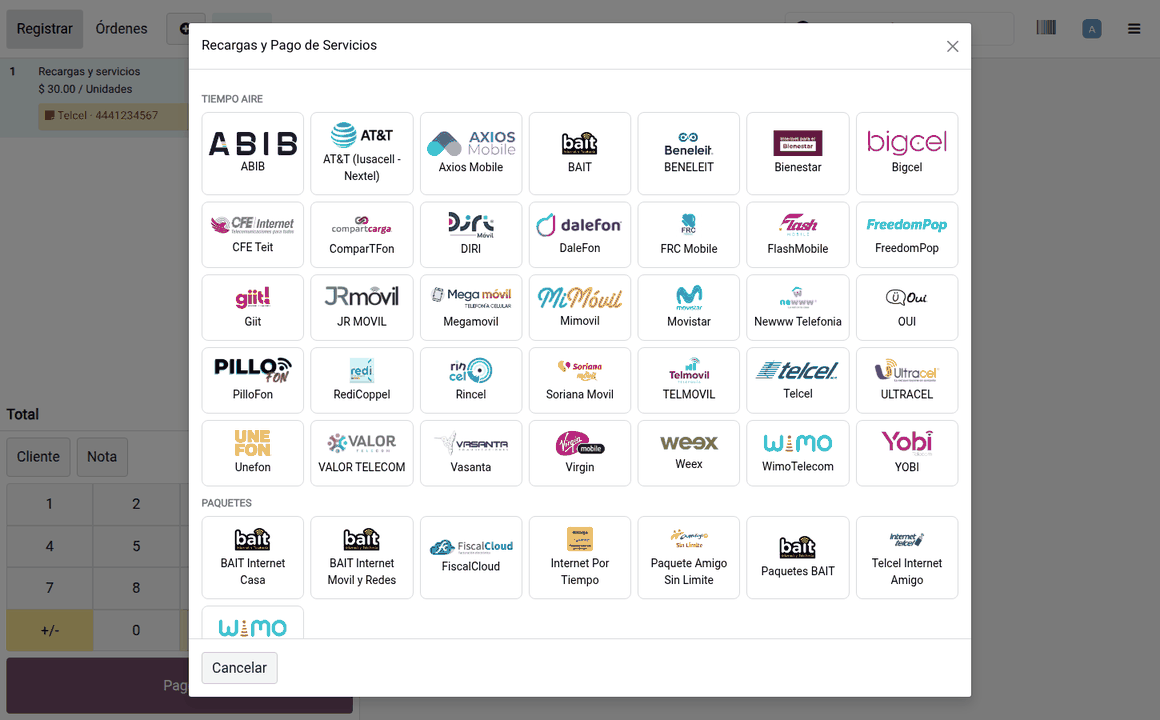
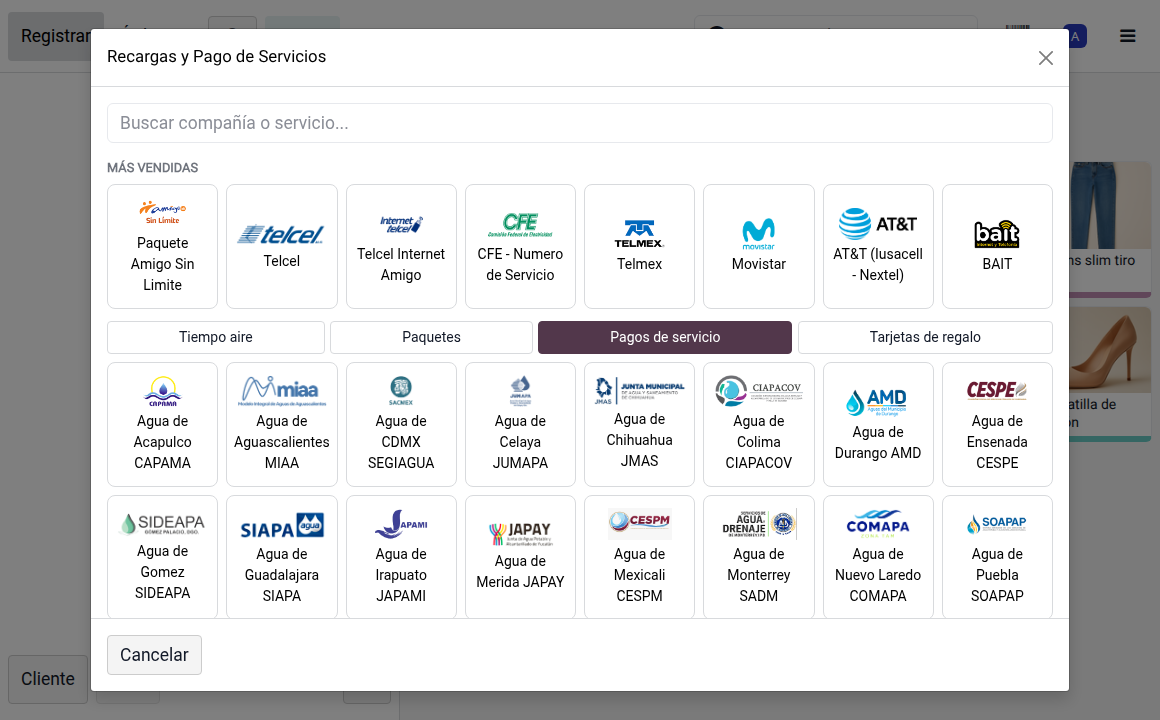
xb_pos_taecel 1.1.7: screenshots and cashier manual match the new recharge picker
- Store page: new carriers screenshot (most sold, tabs, search box) and a
  line on the search box, the tabs and small POS terminals.
- Cashier manual: steps 2 and bill payments describe the search box and the
  tabs; their screenshots retaken (es and en).
- The manual is refreshed on upgrade. Its checksum was taken of the body we
  generated, which the html sanitizer always rewrites, so every manual looked
  edited by hand and none was ever refreshed. It is now taken of the stored
  body, and a body last written by the superuser counts as untouched.

diff --git a/xb_pos_taecel/static/description/index.html b/xb_pos_taecel/static/description/index.html
@@ -39,8 +39,11 @@
 
     <div style="margin:0 0 32px;">
       <p style="font-size:15px;color:#666;margin:0 0 10px;">
-        That button opens the whole catalog, grouped as TAECEL publishes it
-        &mdash; airtime, data packages, bill payments:
+        That button opens the whole catalog. What this shop sells most comes
+        first, then one tab per group &mdash; airtime, data packages, bill
+        payments, gift cards &mdash; and a search box finds any company by
+        name, accents or not. It fits small POS terminals too, and on a touch
+        screen the keyboard only shows up when the cashier taps the search box:
       </p>
       <img src="screenshots/carriers.png"
            style="max-width:100%;border:1px solid #ecdede;border-radius:8px;"/>
@@ -84,6 +87,9 @@
           Bait, Virgin, Weex and the rest, plus utilities such as CFE, Telmex,
           Sky, Dish and Megacable. The catalog is synchronised from TAECEL on
           demand and on a schedule, so new products appear without an update.</li>
+      <li><b>Found in seconds</b> &mdash; the most sold carriers on top, tabs
+          per group and a search box, in a window that fits handheld
+          terminals such as the Newland N750.</li>
       <li><b>Your own service fee</b> per carrier, added to the line and printed
           on the receipt as TAECEL requires.</li>
       <li><b>Electronic PINs</b> handed to the customer on the ticket.</li>

diff --git a/xb_pos_taecel/manual.py b/xb_pos_taecel/manual.py
@@ -20,7 +20,8 @@ from odoo.tools.translate import _
 _logger = logging.getLogger(__name__)
 
 ARTICLE_XMLID = 'xb_pos_taecel.article_cashier_manual'
-CHECKSUM_PARAM = 'xb_pos_taecel.manual_checksum'
+CHECKSUM_PARAM = 'xb_pos_taecel.manual_checksum'        # body as stored
+SOURCE_PARAM = 'xb_pos_taecel.manual_source_checksum'    # body as generated
 IMG_BASE = '/xb_pos_taecel/static/src/img/manual'
 
 
@@ -90,9 +91,11 @@ def build_body(env):
 
     add('<h2>%s</h2>' % _("2 - Pick the carrier or the service"))
     add(_p(_(
-        "The full list opens: mobile carriers at the top, services (power, "
-        "cable, internet, pay TV) further down. It is the catalog your provider "
-        "publishes, so if it shows here, it can be sold.")))
+        "At the top are the carriers this shop sells most. Below them, one tab "
+        "per group: airtime, data packages, bill payments and gift cards. To go "
+        "straight to one, type part of its name in the search box -- \"telcel\", "
+        "\"cfe\" --, accents or not. It is the catalog your provider publishes, "
+        "so if it shows here, it can be sold.")))
     add(_img(folder, '02_companias', _("List of carriers and services")))
 
     add('<h2>%s</h2>' % _("3 - Tap the amount the customer asked for"))
@@ -135,10 +138,10 @@ def build_body(env):
 
     add('<h2>%s</h2>' % _("Bill payments: power, water, cable..."))
     add(_p(_(
-        "Taking a bill is the same flow with one change. In the list, next to "
-        "the mobile carriers, are the services: power, water, gas, cable, "
-        "internet, pay TV and several government offices. Pick the one on the "
-        "customer's bill.")))
+        "Taking a bill is the same flow with one change. The services -- power, "
+        "water, gas, cable, internet, pay TV and several government offices -- "
+        "are under the bill payments tab. Pick the one on the customer's bill, "
+        "or type its name in the search box.")))
     add(_img(folder, '06_servicios', _("List of services")))
     add(_p(_(
         "The difference: a service has %(no_fixed)s. Instead you type two "
@@ -313,12 +316,19 @@ def install_manual(env):
     if article:
         # Refresh only what the customer has not touched: an edited manual is
         # theirs, and stomping it on every upgrade would be worse than stale.
+        # Two checksums. CHECKSUM_PARAM is of the body AS STORED: the html
+        # sanitizer rewrites what we hand it, so comparing against the body we
+        # generated never matched and every manual looked edited. A body last
+        # written by the superuser (this function) was not edited by a person
+        # either. SOURCE_PARAM is of the body as generated: when it has not
+        # changed there is nothing new to write.
         previous = params.get_param(CHECKSUM_PARAM)
         current = hashlib.sha256((article.body or '').encode()).hexdigest()
-        if previous and previous != current:
+        by_us = article.write_uid.id == SUPERUSER_ID
+        if previous and previous != current and not by_us:
             _logger.info('xb_pos_taecel: cashier manual edited locally, left as is.')
             return article
-        if previous == digest:
+        if params.get_param(SOURCE_PARAM) == digest:
             return article
         article.write({'body': body})
     else:
@@ -349,6 +359,7 @@ def install_manual(env):
     # behind an ORM write is what makes an article revert in the browser.
     if 'html_field_history' in article._fields:
         article.write({'html_field_history': False})
-    params.set_param(CHECKSUM_PARAM, digest)
+    params.set_param(CHECKSUM_PARAM, hashlib.sha256((article.body or '').encode()).hexdigest())
+    params.set_param(SOURCE_PARAM, digest)
     _logger.info('xb_pos_taecel: cashier manual ready (article %s, %s).', article.id, lang)
     return article

diff --git a/xb_pos_taecel/migrations/1.1.7/post-migrate.py b/xb_pos_taecel/migrations/1.1.7/post-migrate.py
@@ -1,0 +1,15 @@
+# -*- coding: utf-8 -*-
+from odoo import api, SUPERUSER_ID
+
+
+def migrate(cr, version):
+    """Refresh the cashier manual: the carrier picker gained a search box, tabs
+    and a most-sold row, and the manual still described one long list.
+
+    install_manual() leaves a manual a person has edited alone. Up to 1.1.6 its
+    checksum never matched what was stored, so every manual looked edited and
+    none would have been refreshed; it now also trusts the last writer.
+    """
+    from odoo.addons.xb_pos_taecel import manual
+    env = api.Environment(cr, SUPERUSER_ID, {})
+    manual.install_manual(env)

diff --git a/xb_pos_taecel/__manifest__.py b/xb_pos_taecel/__manifest__.py
@@ -35,7 +35,7 @@ transactions. A distributor account on its own does not include API access.
 Runs on Odoo 17.0, 18.0, 19.0 and 20.0.
 """,
     'category': 'Sales/Point of Sale',
-    'version': '1.1.6',
+    'version': '1.1.7',
     'author': 'XUBAX',
     'website': 'https://xubax.com',
     'license': 'OPL-1',
